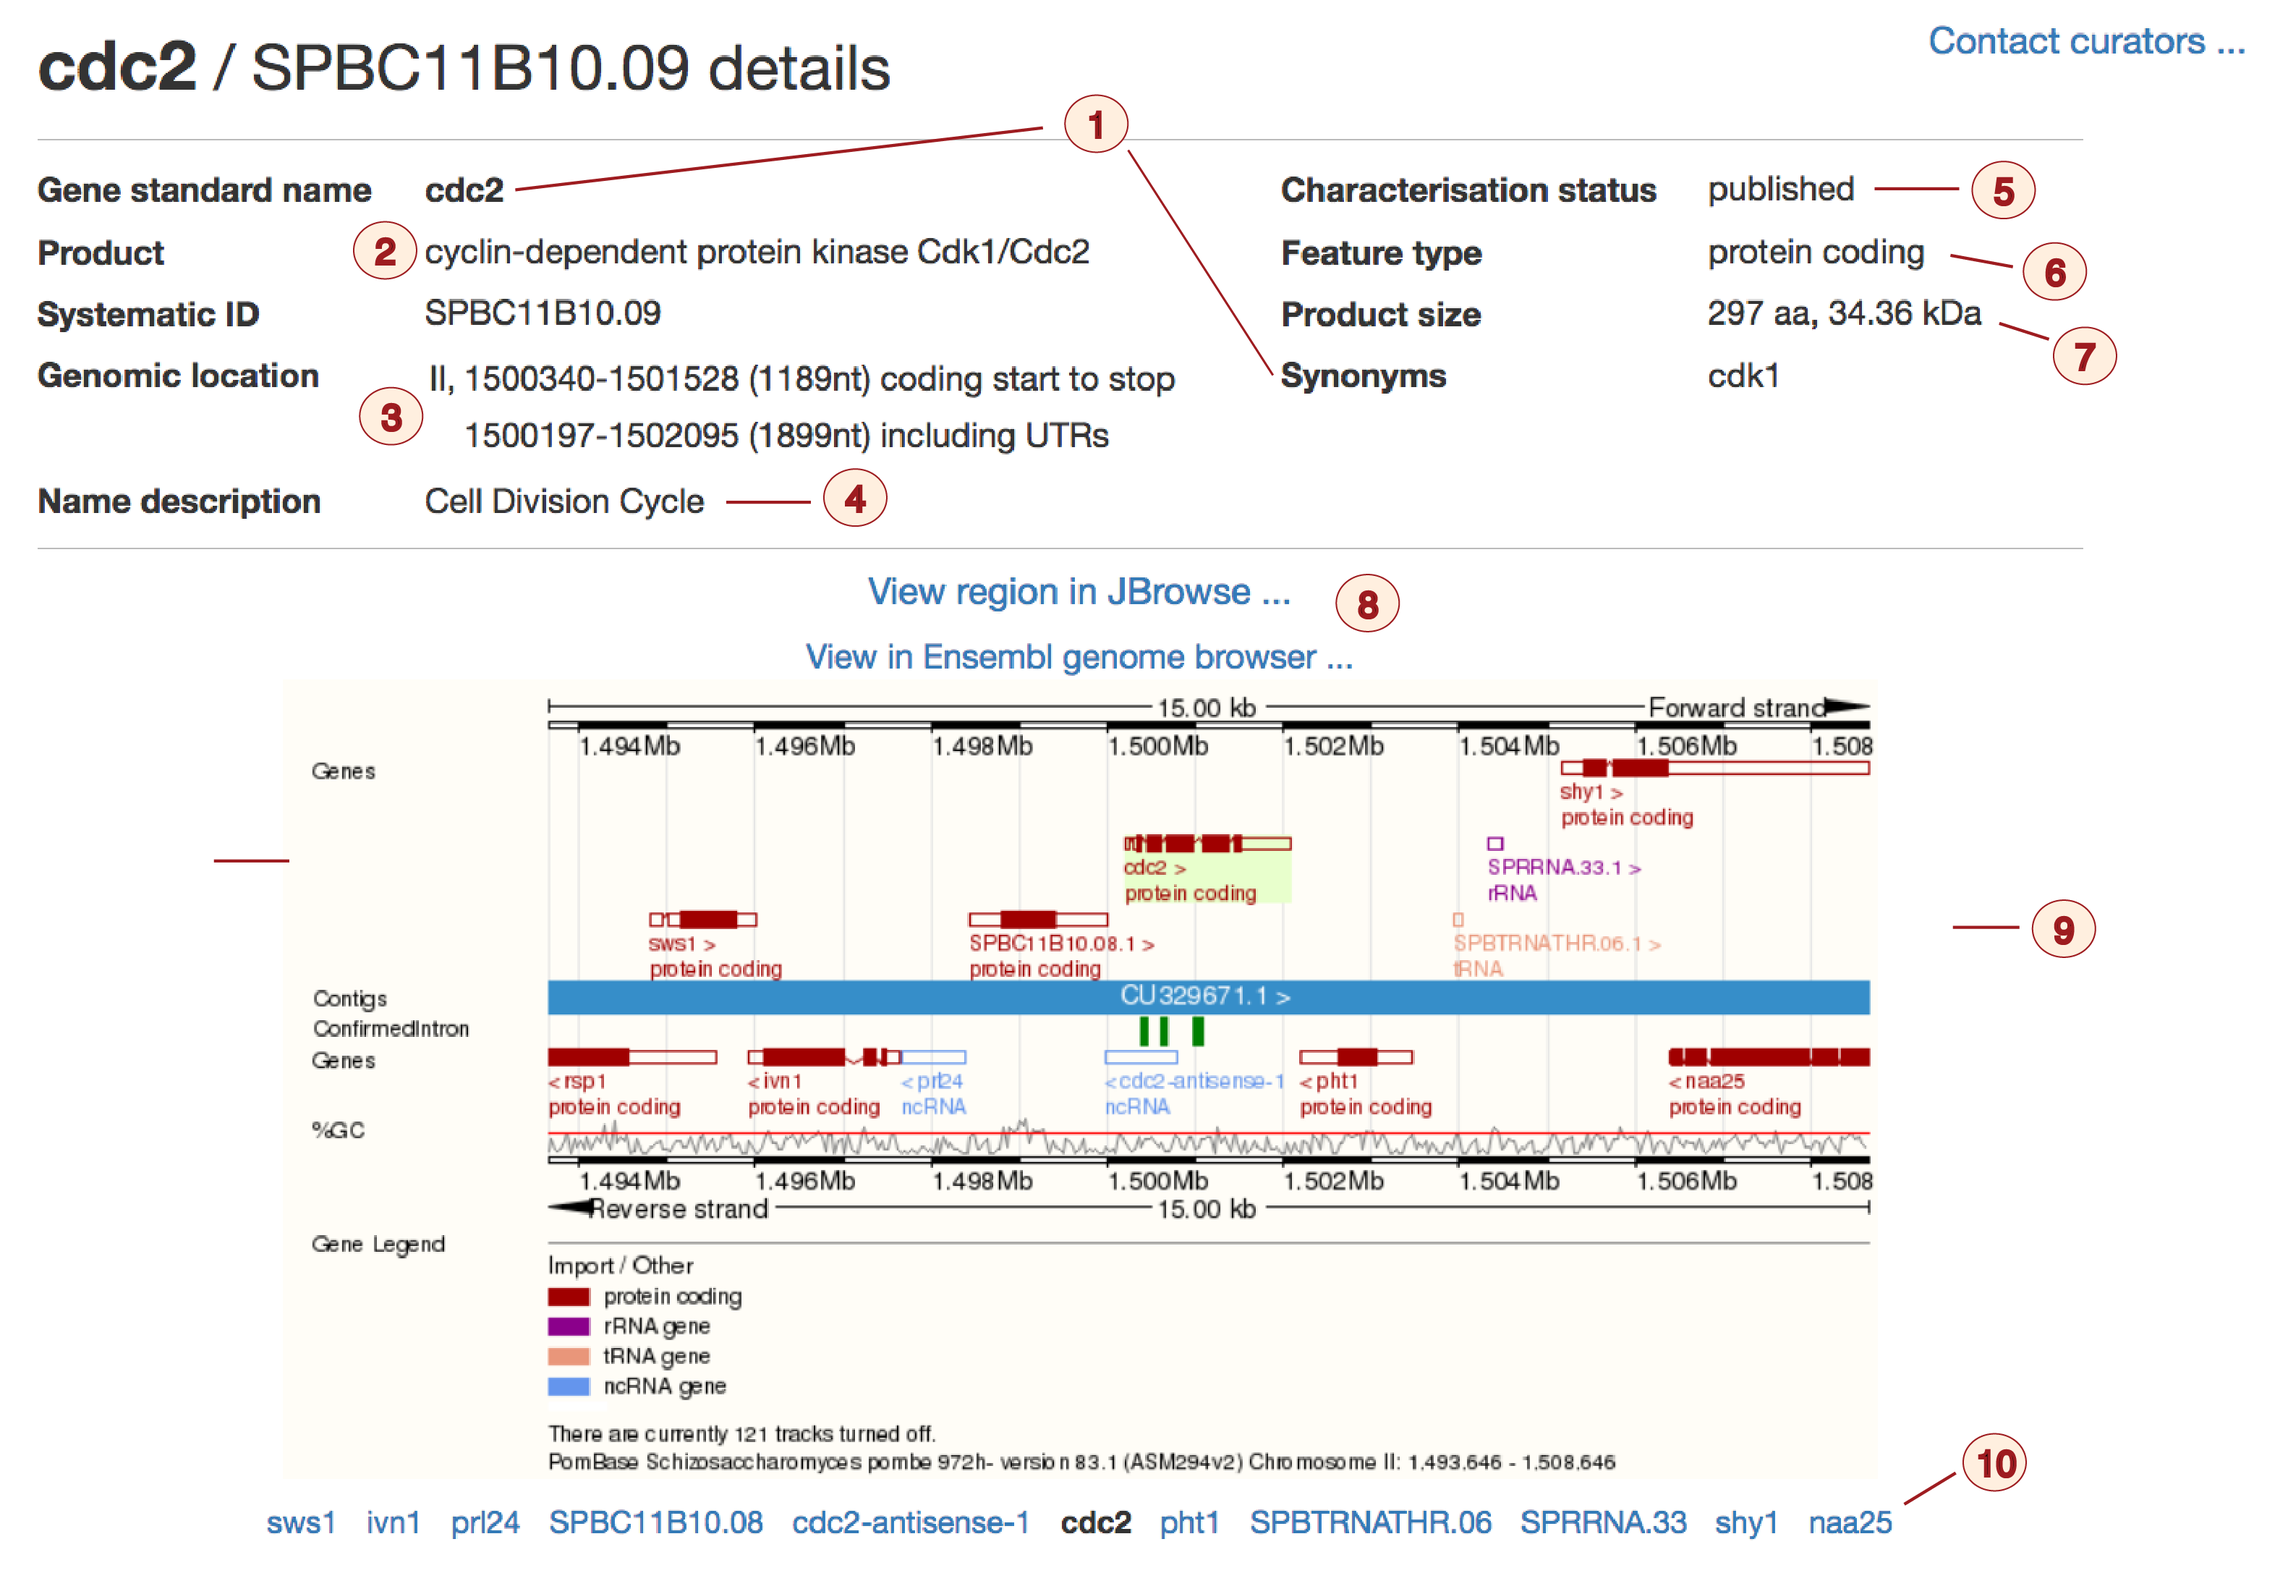
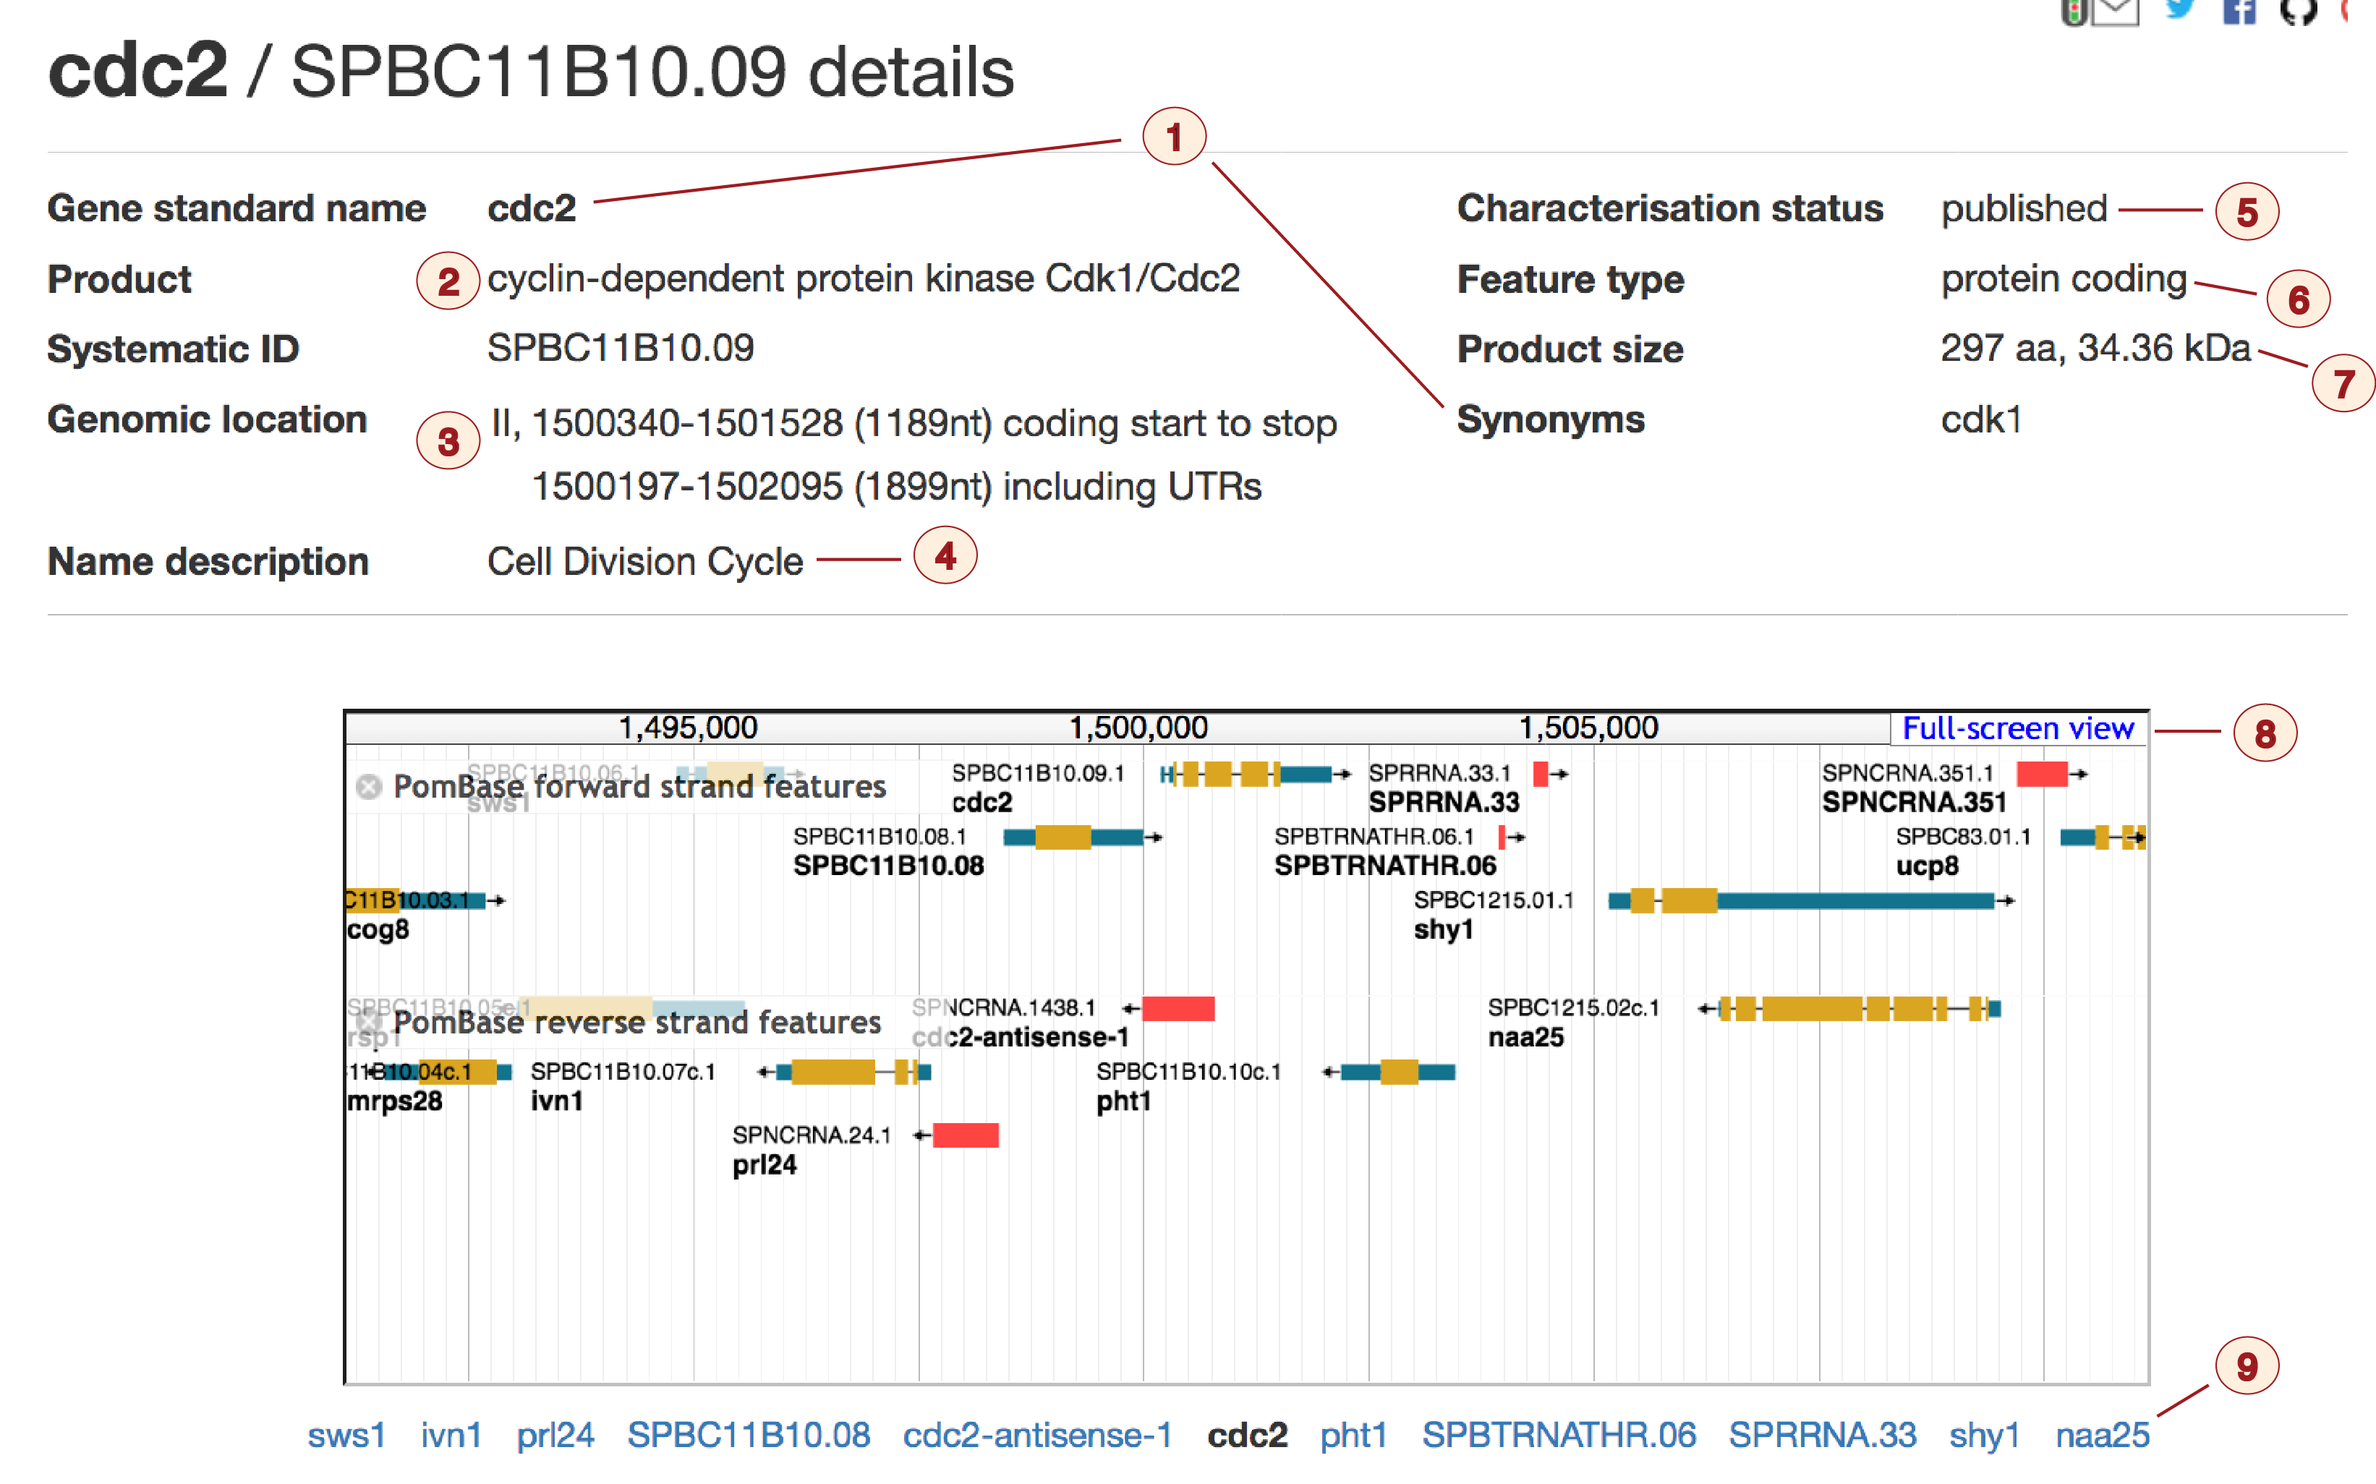
updated text and image for gene page top

diff --git a/frontend/src/docs/documentation/gene-page-basic-information.md b/frontend/src/docs/documentation/gene-page-basic-information.md
@@ -26,9 +26,11 @@ gene:
 7.  The size of the mature gene product. For protein-coding genes, the
     length (number of amino acid residues) and molecular weight are
     shown.
-8.  Links to genome browsers (PomBase JBrowse and the *S. pombe*
-    browser at Ensembl Fungi), centred on the location of the gene
-9.  Static graphic from the PomBase Genome Browser showing the region
-    around the gene
-
-10. Links to gene pages for nearby genes
+8.  Interactive graphic from PomBase JBrowse, centred on the location
+    of the gene. Drag to scroll left and right, double-click to zoom
+    in, shift-double-click to zoom out, and click a feature to see
+    details in a popup. The "Full-screen view" link in the corner
+    opens the fully functional JBrowse in a new tab or
+    window. Reloading a gene page restores the display to the default
+    location and zoom level.
+9.  Links to gene pages for nearby genes
